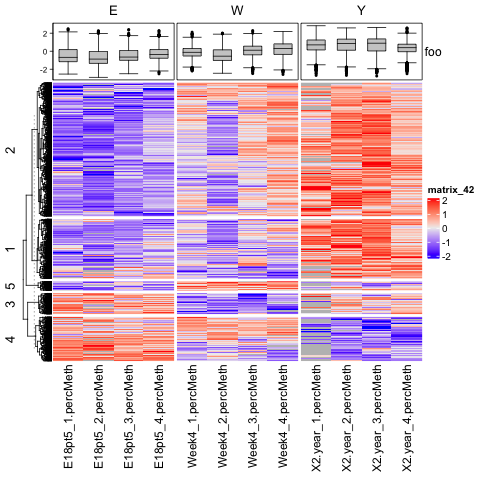
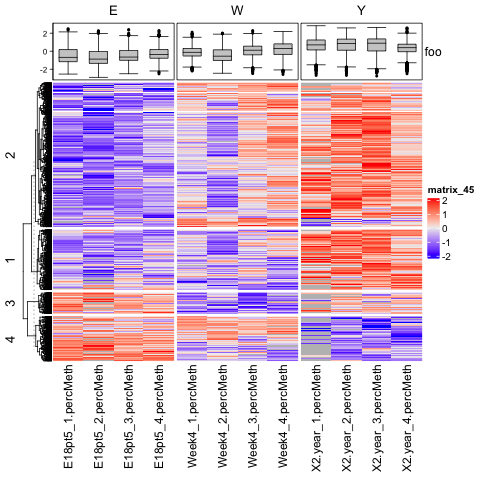
wooutlier

diff --git a/results/2025-04-30/README.md b/results/2025-04-30/README.md
@@ -1,4 +1,4 @@
-## Update : Wed Apr 30 11:28:38 EDT 2025
+## Update : Wed Apr 30 11:34:02 EDT 2025
 - Improved sensitivity in detecting  2286 /  16833 significant CpG sites (Pval <0.05)
 - Identified unbiased methylation patterns without applying prefiltering (previously required a 25% difference threshold)
 
